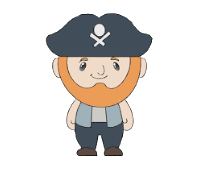
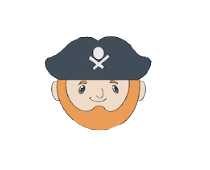
Pantalla de carga entre ingreso y PantallaPhoto

Changed region(s): [[0.2, 0.0588, 0.7429, 0.9412]]

diff --git a/TrabajoPracticoFinalSegundo/Pantallas/Intro.cs b/TrabajoPracticoFinalSegundo/Pantallas/Intro.cs
@@ -15,12 +15,13 @@ namespace TrabajoPracticoFinalSegundo.Pantallas
     {
         int cont;
         int TIPO;
-
+        int timeToWait;
         public Intro(Ingreso ing)
         {
             InitializeComponent();
             this.cont = 0;
             this.TIPO = 1;
+            this.timeToWait = 5;
 
             p_boxUno.Location = new Point((((this.Width) / 2) - 50), (this.Height / 2));
 
@@ -33,28 +34,38 @@ namespace TrabajoPracticoFinalSegundo.Pantallas
             InitializeComponent();
             this.cont = 0;
             this.TIPO = 2;
+            this.timeToWait = 5;
 
             this.p_boxUno.Enabled = false;
 			this.p_box2.Enabled = true;
 
             p_box2.Image = carga;
+        }
 
+        public Intro(int tiempoEspera)
+        {
+            Image carga = Image.FromFile(@".\Recursos\Gifs\barco.gif");
+            InitializeComponent();
+            this.cont = 0;
+            this.TIPO = 2;
+            this.timeToWait = tiempoEspera;
 
+            this.p_boxUno.Enabled = false;
+            this.p_box2.Enabled = true;
 
-
-
+            p_box2.Image = carga;
         }
 
         private void Timer_Tick(object sender, EventArgs e)
         {
             cont++;
-            if(cont >= 3 && cont < 5) 
+            if(cont >= 3) 
             {
                 if (this.TIPO == 1)
                 p_boxUno.Image = Image.FromFile(@".\Recursos\Logos\LOGO_Gregoire.png");
             }
 
-            if (cont >= 5) 
+            if (cont >= this.timeToWait) 
             {
                 this.Close();
             }

diff --git a/TrabajoPracticoFinalSegundo/Pantallas/Intro.Designer.cs b/TrabajoPracticoFinalSegundo/Pantallas/Intro.Designer.cs
@@ -58,8 +58,8 @@
             // p_box2
             // 
             this.p_box2.Dock = System.Windows.Forms.DockStyle.Left;
-            this.p_box2.Location = new System.Drawing.Point(30, 0);
-            this.p_box2.Margin = new System.Windows.Forms.Padding(30, 0, 30, 30);
+            this.p_box2.Location = new System.Drawing.Point(50, 0);
+            this.p_box2.Margin = new System.Windows.Forms.Padding(50, 0, 30, 50);
             this.p_box2.Name = "p_box2";
             this.p_box2.Size = new System.Drawing.Size(150, 150);
             this.p_box2.TabIndex = 2;
@@ -71,11 +71,11 @@
             this.tblBottom.ColumnStyles.Add(new System.Windows.Forms.ColumnStyle(System.Windows.Forms.SizeType.Percent, 50F));
             this.tblBottom.Controls.Add(this.p_box2, 0, 0);
             this.tblBottom.Dock = System.Windows.Forms.DockStyle.Bottom;
-            this.tblBottom.Location = new System.Drawing.Point(0, 488);
+            this.tblBottom.Location = new System.Drawing.Point(0, 468);
             this.tblBottom.Name = "tblBottom";
             this.tblBottom.RowCount = 1;
             this.tblBottom.RowStyles.Add(new System.Windows.Forms.RowStyle(System.Windows.Forms.SizeType.Percent, 50F));
-            this.tblBottom.Size = new System.Drawing.Size(1447, 180);
+            this.tblBottom.Size = new System.Drawing.Size(1447, 200);
             this.tblBottom.TabIndex = 3;
             // 
             // Intro

diff --git a/TrabajoPracticoFinalSegundo/Pantallas/Ingreso.cs b/TrabajoPracticoFinalSegundo/Pantallas/Ingreso.cs
@@ -22,6 +22,8 @@ namespace TrabajoPracticoFinalSegundo
         private void btn_Ingresar_Click(object sender, EventArgs e)
         {
             PantallaPhoto pp = new PantallaPhoto();
+            Intro espera = new Intro(3);
+            espera.Show();
             pp.Show();
             this.Hide();
         }
